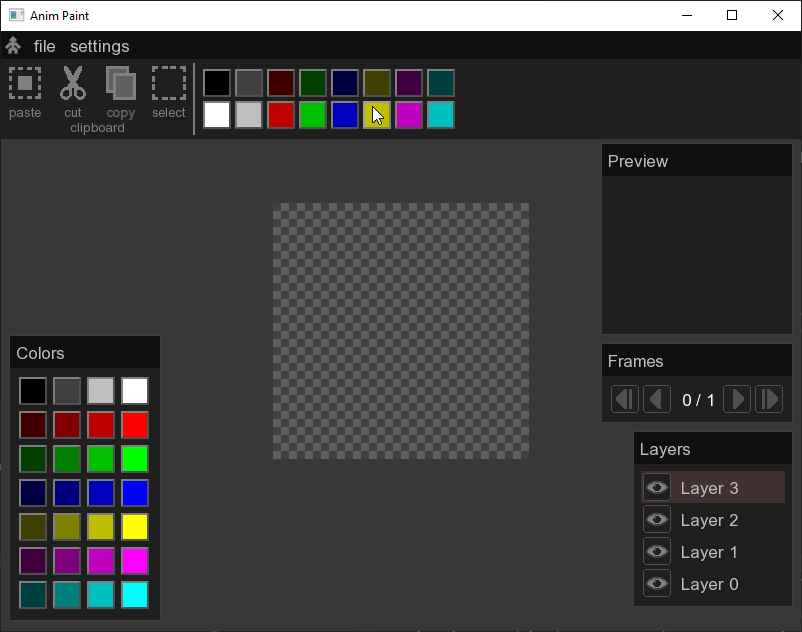
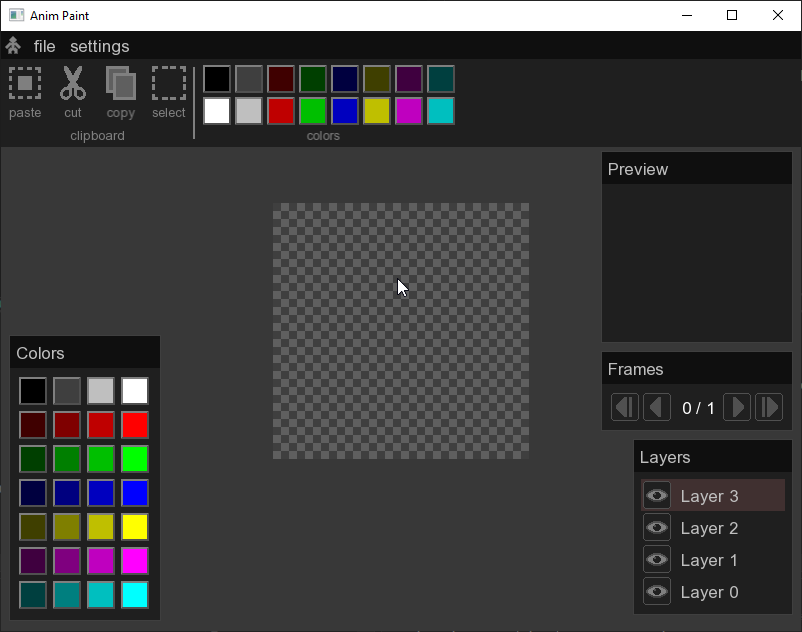
positioning colors on tools bar

diff --git a/Anim-Paint/Tools.hpp b/Anim-Paint/Tools.hpp
@@ -66,6 +66,7 @@ public:
 	ButtonWithBottomText* btn_copy;
 	ButtonWithBottomText* btn_select;
 	
+	sf::Text colors_text;
 	std::vector < ColorButton* > colors;
 
 
@@ -89,6 +90,9 @@ public:
 		separators.push_back(new Separator());
 
 		// colors
+		colors_text = sf::Text(L"colors", basicFont, 13);
+		colors_text.setFillColor(tools_text_color);
+		 
 		// black - grey - white
 		colors.push_back(new ColorButton(L"black", sf::Color(0, 0, 0)));
 		colors.push_back(new ColorButton(L"white", sf::Color(255, 255, 255)));
@@ -141,12 +145,17 @@ public:
 		x += separators[0]->getSize().x;
 
 		// colors
-		int y = menu_height + tools_height/2 - 32;
+		
+		int old_x = x;
+		int y = menu_height + 4;
 		for (int i = 0; i < colors.size(); i+=2) {
 			colors[i]->setPosition(sf::Vector2f(x + 6, y));
 			colors[i+1]->setPosition(sf::Vector2f(x + 6, y+32));
 			x += 32;
 		}
+
+		colors_text.setPosition((x+old_x) / 2 - colors_text.getGlobalBounds().width / 2.0f, menu_height + tools_height - basicFont.getLineSpacing(14) - 4);
+
 	}
 
 	void cursorHover() {
@@ -198,6 +207,7 @@ public:
 			col->draw();
 
 		window->draw(clipboard_text);
+		window->draw(colors_text);
 	}
 };
 

diff --git a/Anim-Paint/Theme.hpp b/Anim-Paint/Theme.hpp
@@ -83,7 +83,7 @@ void loadTheme() {
 	optionbox_press_color = sf::Color(39, 39, 39);
 
 	// tools
-	tools_height = 64 + 16;
+	tools_height = 64 + 24;
 	tools_bar_color = sf::Color(31, 31, 31);
 	tools_separator_height = 64+8;
 	tools_separator_color = sf::Color(127, 127, 127);
